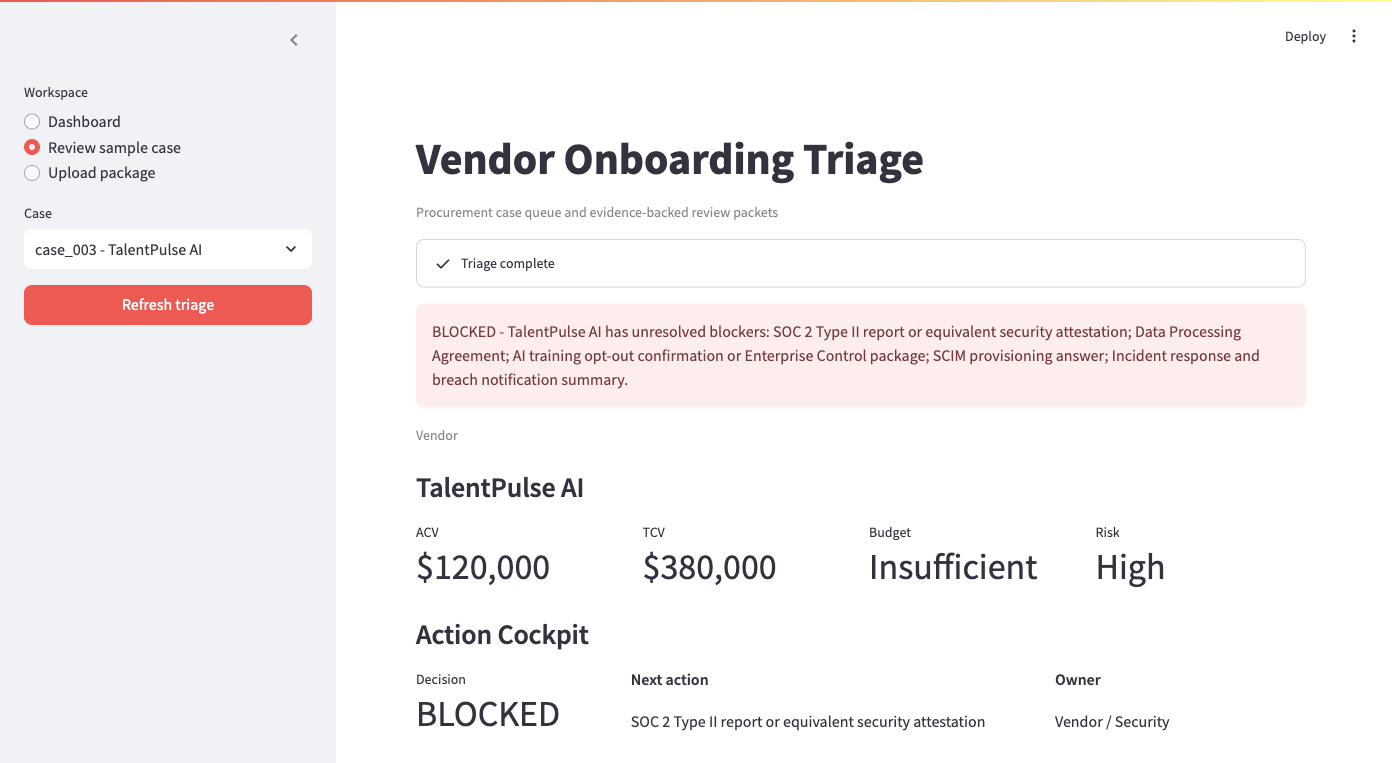
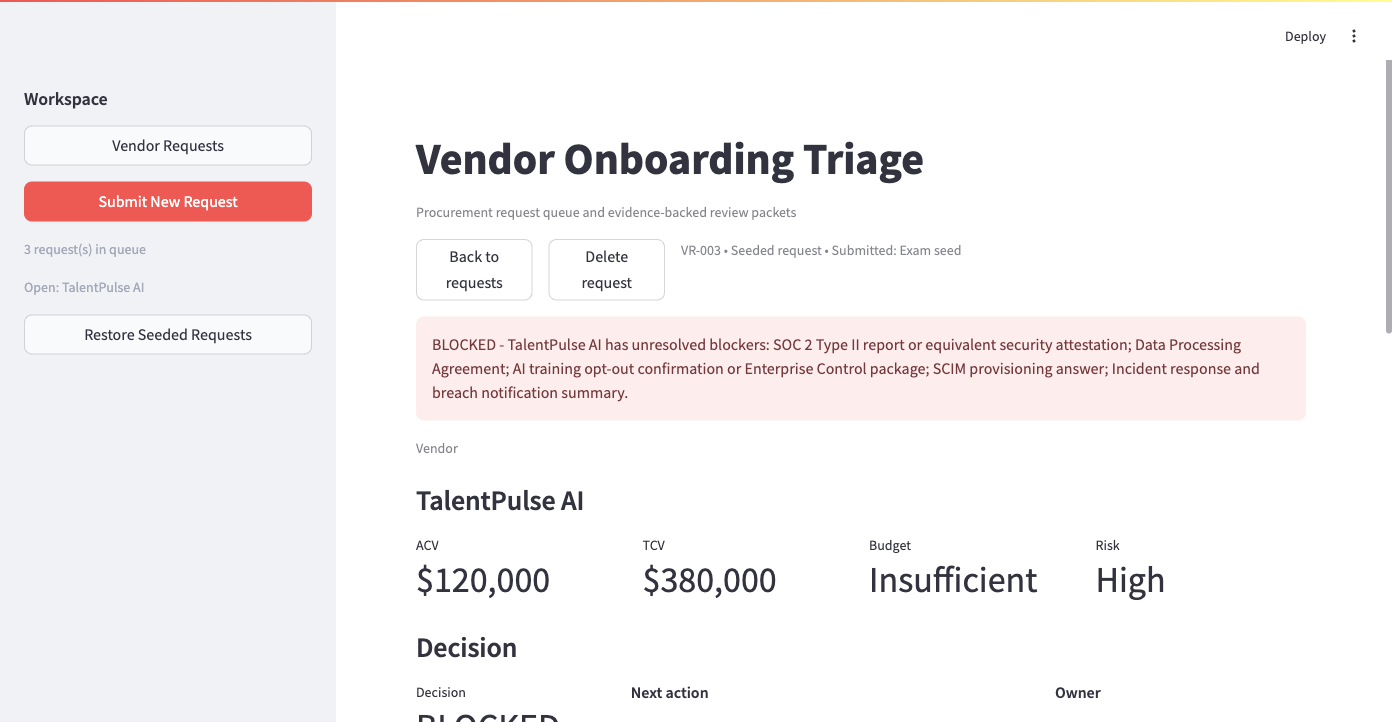
Polish request queue presentation

diff --git a/tests/test_streamlit_app.py b/tests/test_streamlit_app.py
@@ -20,13 +20,13 @@ def test_streamlit_app_renders_dashboard_homepage():
     assert any("Vendor Requests" in item.value for item in app.subheader)
     assert any("Queue Priorities" in item.value for item in app.subheader)
     assert any("Missing Items" in item.label for item in app.metric)
-    assert any("Open Workspace Depot" in item.label for item in app.button)
+    assert len(buttons_by_label(app, "Open")) == 3
 
 
 def test_streamlit_app_opens_seeded_request_from_dashboard():
     app = AppTest.from_file("app.py")
     app.run(timeout=30)
-    button_by_label(app, "Open Workspace Depot").click()
+    buttons_by_label(app, "Open")[1].click()
     app.run(timeout=30)
 
     assert not app.exception
@@ -57,14 +57,14 @@ def test_streamlit_app_submit_request_view_explains_queue_creation():
 def test_streamlit_app_can_delete_request_from_detail_view():
     app = AppTest.from_file("app.py")
     app.run(timeout=30)
-    button_by_label(app, "Open Workspace Depot").click()
+    buttons_by_label(app, "Open")[1].click()
     app.run(timeout=30)
     button_by_label(app, "Delete request").click()
     app.run(timeout=30)
 
     assert not app.exception
     assert any(item.label == "Requests" and item.value == "2" for item in app.metric)
-    assert not any("Workspace Depot" in item.label for item in app.button)
+    assert len(buttons_by_label(app, "Open")) == 2
 
 
 def test_uploaded_support_artifacts_can_be_compared_to_sample_baseline(tmp_path):
@@ -162,3 +162,7 @@ def button_by_label(app: AppTest, label: str):
         if button.label == label:
             return button
     raise AssertionError("Could not find button %r. Buttons: %s" % (label, [button.label for button in app.button]))
+
+
+def buttons_by_label(app: AppTest, label: str):
+    return [button for button in app.button if button.label == label]

diff --git a/app.py b/app.py
@@ -207,7 +207,8 @@ def render_dashboard() -> None:
 
 
 def render_request_queue(records: list) -> None:
-    header = st.columns([0.75, 2.1, 1.05, 0.8, 0.9, 0.9, 1.3, 0.9, 0.9])
+    column_widths = [0.85, 2.0, 1.1, 0.65, 0.75, 0.65, 1.05, 0.75, 0.85]
+    header = st.columns(column_widths)
     header[0].markdown("**Request**")
     header[1].markdown("**Vendor**")
     header[2].markdown("**Status**")
@@ -219,7 +220,7 @@ def render_request_queue(records: list) -> None:
     header[8].markdown("**Actions**")
     for record in records:
         packet = record["packet"]
-        row = st.columns([0.75, 2.1, 1.05, 0.8, 0.9, 0.9, 1.3, 0.9, 0.9])
+        row = st.columns(column_widths)
         row[0].write(record["display_id"])
         row[1].markdown("**%s**" % packet.facts.vendor_name)
         row[1].caption(packet.facts.requesting_team)
@@ -230,8 +231,9 @@ def render_request_queue(records: list) -> None:
         row[6].write(_next_owner(packet))
         row[7].write(record["source"])
         if row[8].button(
-            "Open %s" % packet.facts.vendor_name,
+            "Open",
             key="open_%s" % record["request_id"],
+            help="Open %s" % packet.facts.vendor_name,
             use_container_width=True,
         ):
             st.session_state["active_view"] = "detail"
